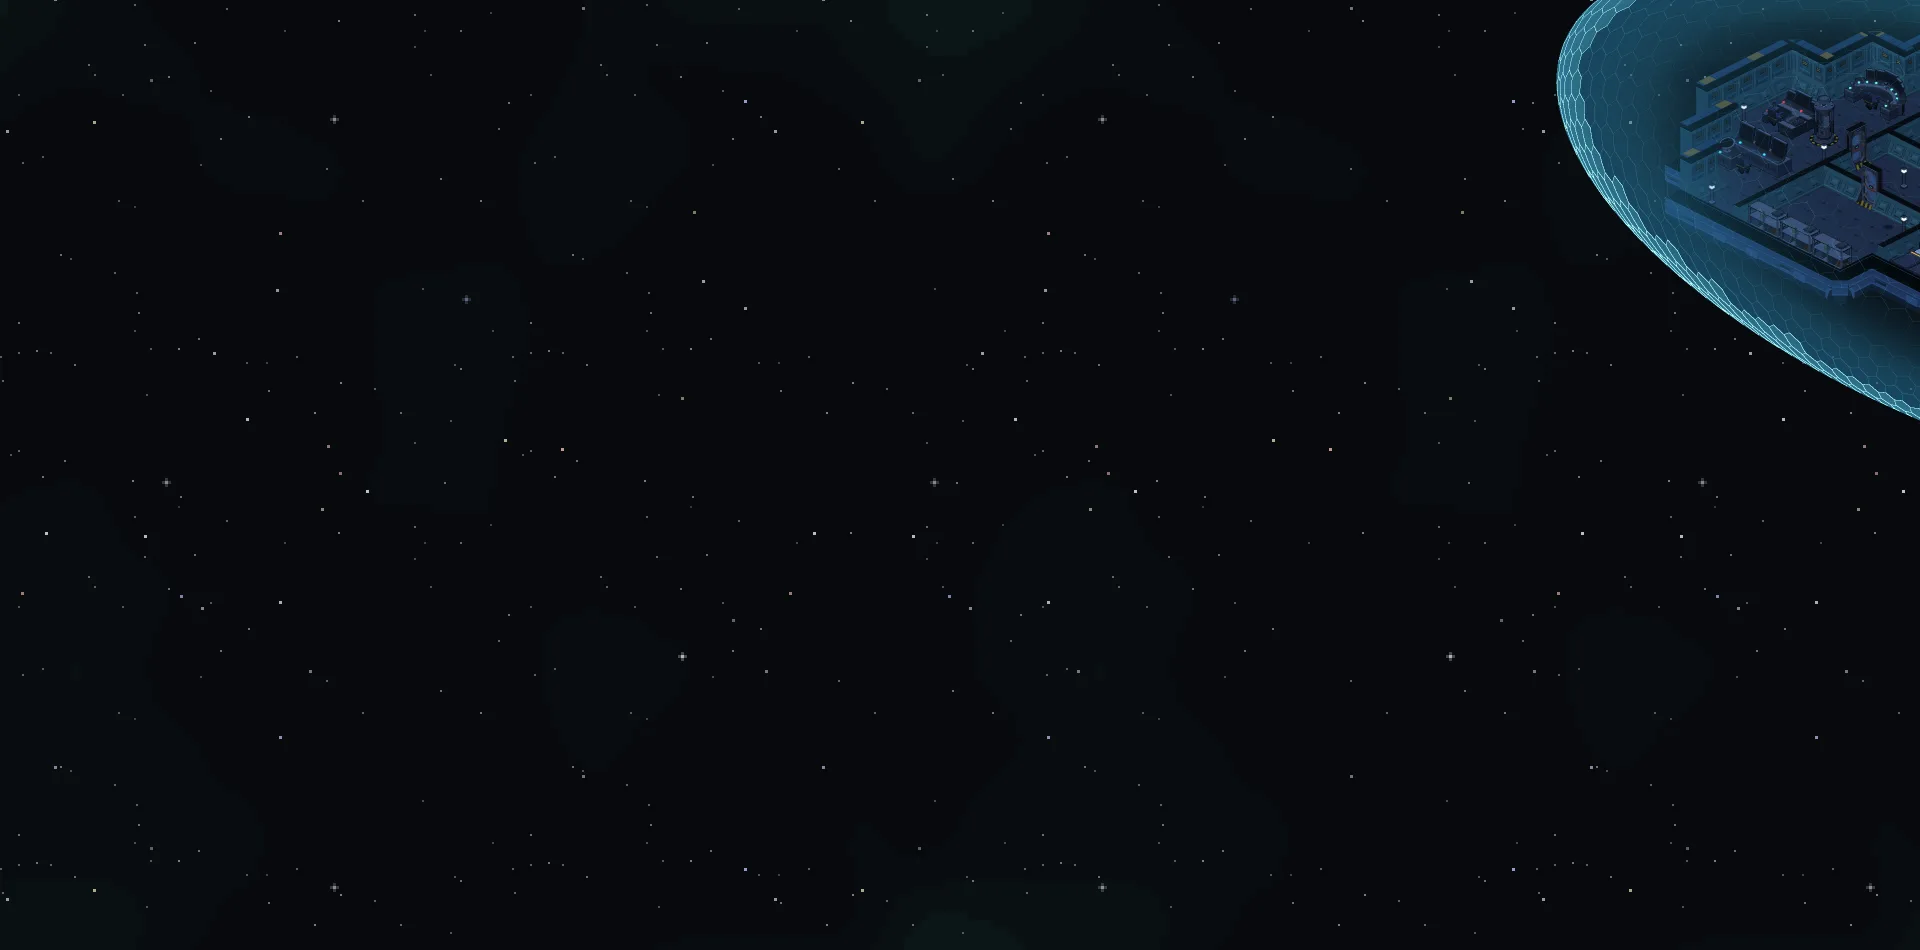
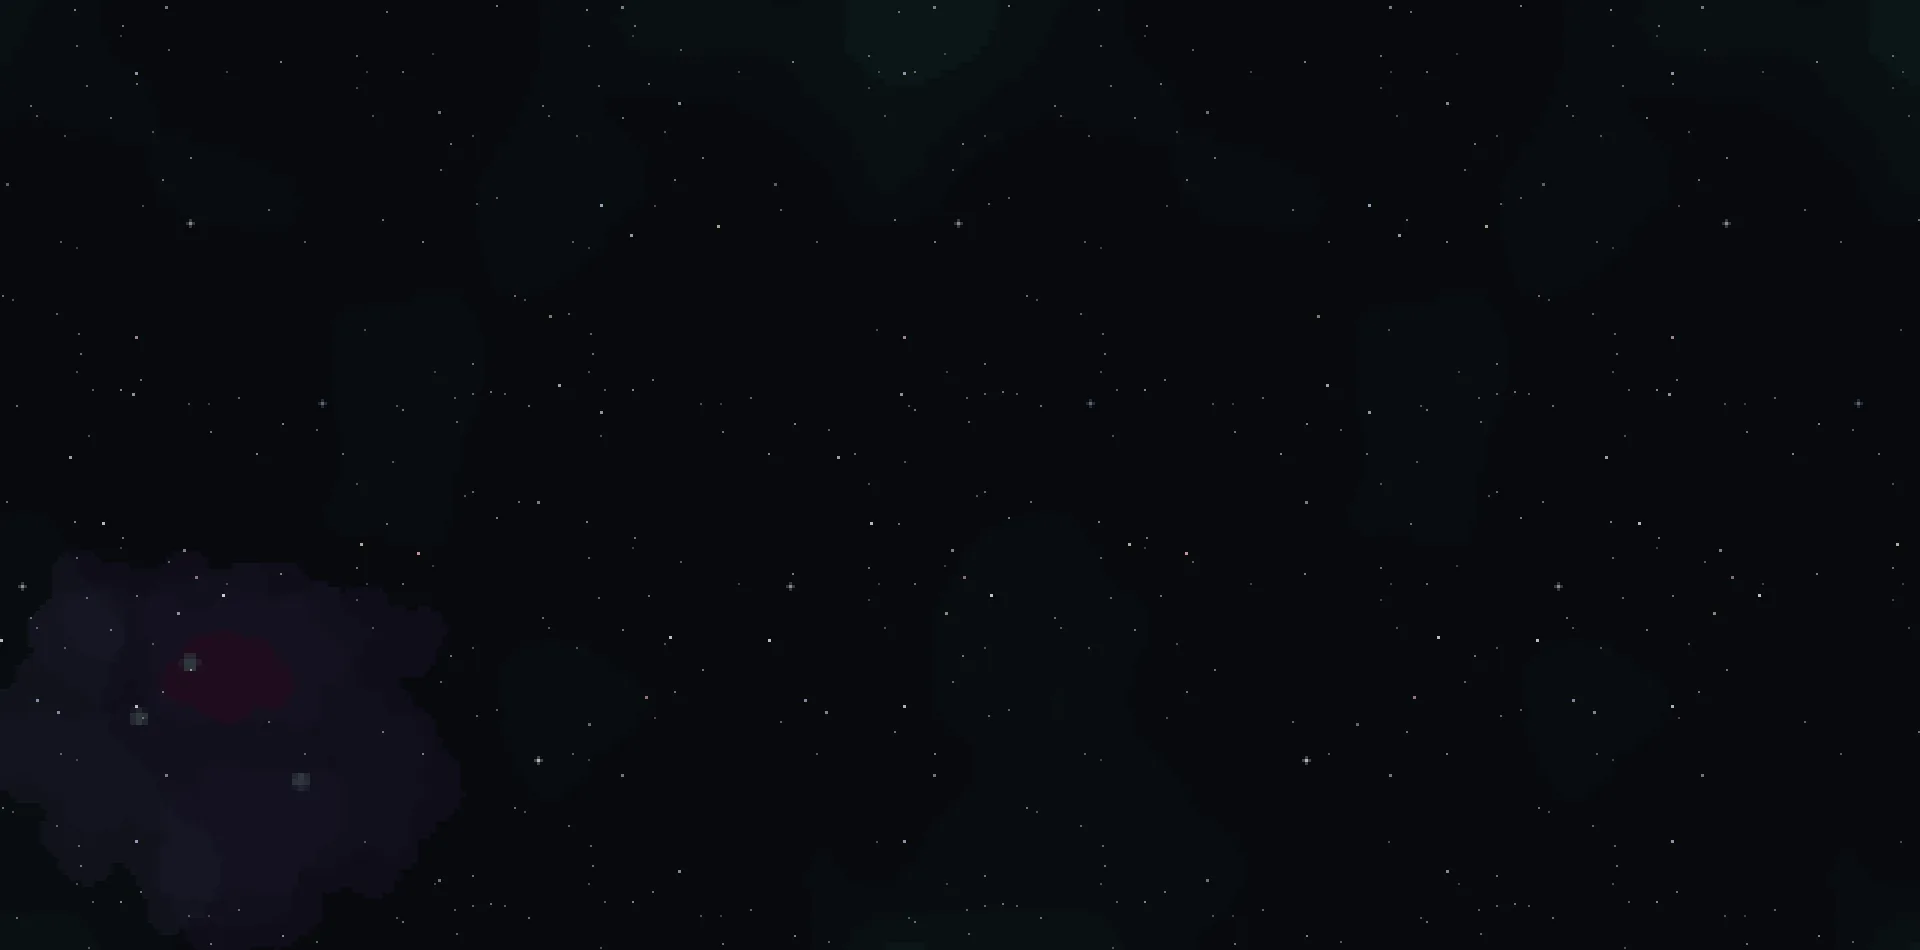
Wiki: the home backdrop is a fixed image of open space (no ships), not a capture recipe
Refs #446

Changed region(s): [[0.8125, 0.0, 1.0, 0.4579], [0.0938, 0.6716, 0.125, 0.7021], [0.0625, 0.7326, 0.0938, 0.7632]]

diff --git a/wiki/README.md b/wiki/README.md
@@ -62,4 +62,5 @@ changed panel fails the check. No sim code reaches the browser. The game's theme
 writes `static/guides/<name>.webp`, plus callout positions for `<GuideShot>` in `src/data/guide-shots/`. Re-run it
 after art or UI changes and commit the results. It uses the GPU; on a machine without one (a cloud container) set
 `CAPTURE_SOFTWARE_GL=1`, which is much slower. It prints each shot's progress; `npm run capture -- hud` runs only shots whose name contains `hud`. The
-home page's ship and backdrop come from the same recipes.
+home page's ship comes from the same recipes; its backdrop (`static/guides/home/backdrop.webp`) is a fixed image, shot
+once from open space and kept.
